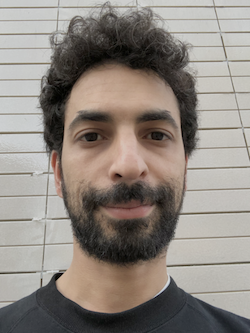
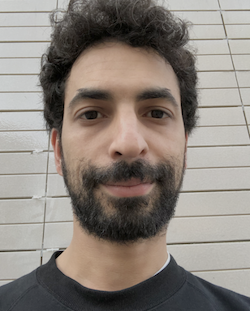
Crop + ext

diff --git a/index.html b/index.html
@@ -167,7 +167,7 @@ var x = setInterval(function() {
           <div class="col-sm-4"> <!-- Service-item -->
             <div class="text-center services-item ">
               <div class="col-wrapper  ">
-                <div class=" team-member-item" style="background-image: url('images/team/of.jpg');" ></div>
+                <div class=" team-member-item" style="background-image: url('images/team/of.png');" ></div>
                 <h5>Otman Fathi</h5>
                 <p>Ik ben een tech-savvy nerd met een liefde voor computers die op zoek is naar een werkgever waarmee ik mijn krachten kan bundelen. Ik zou zo dan voor de  goede werking van de computersystemen kunnen zorgen en die werkgever kan dan in ruil daarvoor mij betalen.</p>
                 <p><a href="https://www.linkedin.com/in/otman-f-23400523a/" target="_new"><i class="fa fa-linkedin"></i></a></p>
